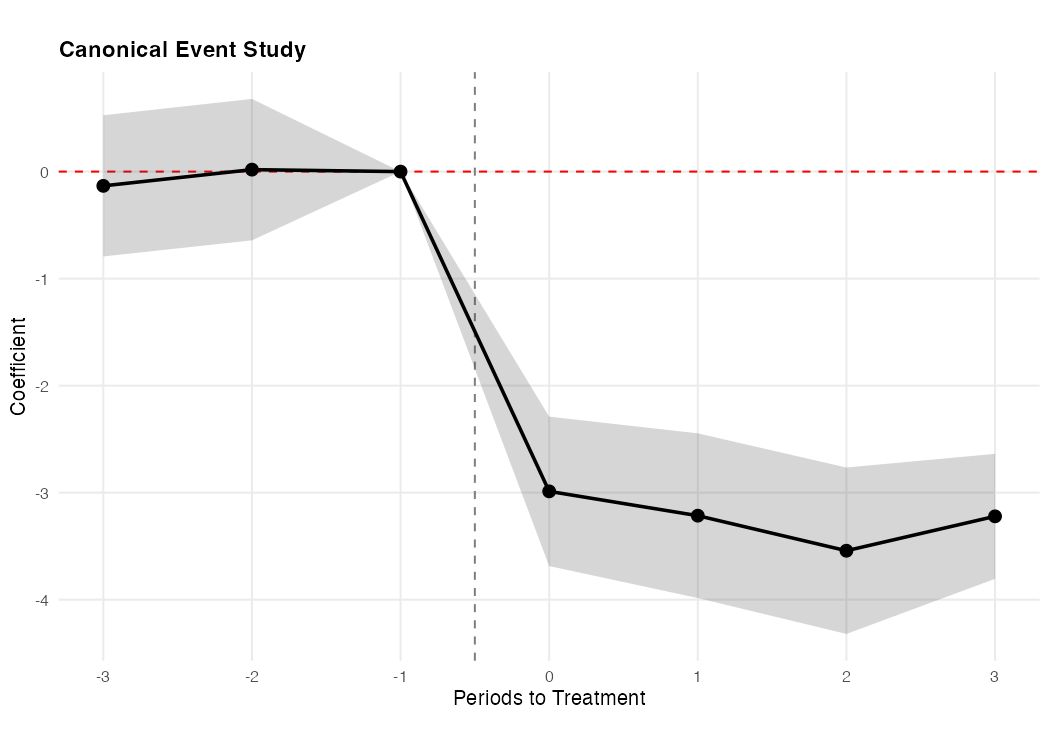
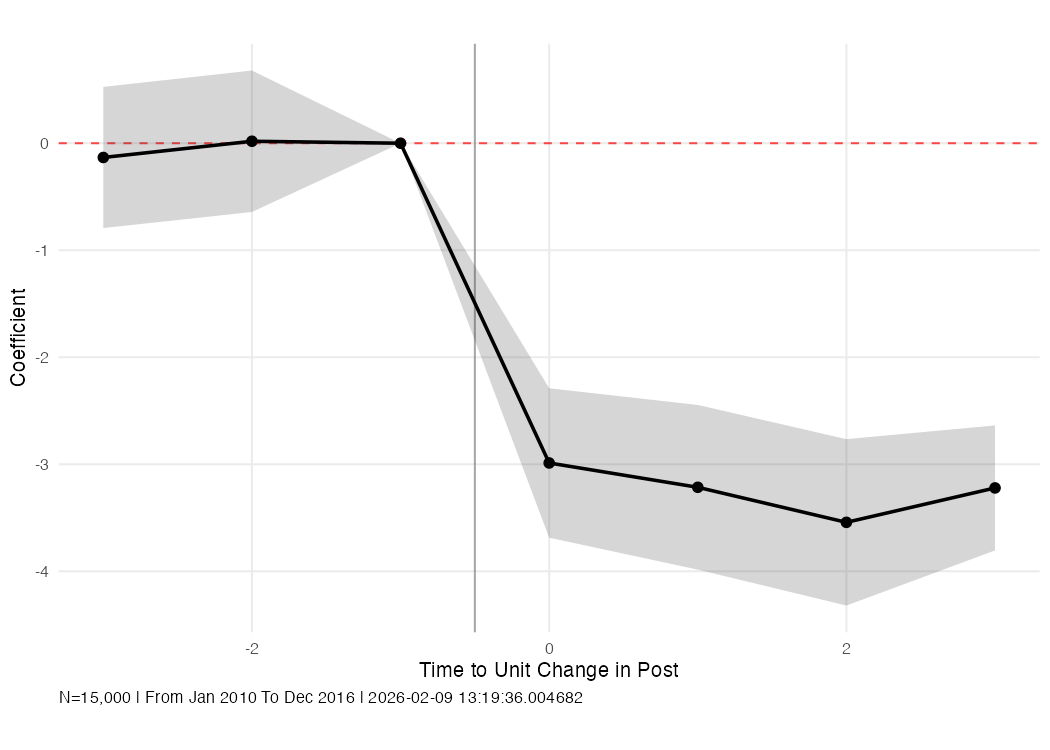
Change default x-axis label to 'Time to Unit Change in {Exposure}'

diff --git a/docs/stata/api.md b/docs/stata/api.md
@@ -78,7 +78,7 @@ dlm_plot [, title(string) xtitle(string) ytitle(string)
 | Option | Default | Description |
 |---|---|---|
 | `title(string)` | "Event Study (DLM)" | Plot title |
-| `xtitle(string)` | "Time to Treatment" | X-axis label |
+| `xtitle(string)` | "Time to Unit Change in {Exposure}" | X-axis label |
 | `ytitle(string)` | "Coefficient" | Y-axis label |
 | `from_label(string)` | — | Label for "From" in caption (e.g., "Jan 2010"). If both `from_label` and `to_label` are specified, caption shows "From ... To ...". |
 | `to_label(string)` | — | Label for "To" in caption (e.g., "Dec 2016") |

diff --git a/docs/stata/guide.md b/docs/stata/guide.md
@@ -160,7 +160,7 @@ Options for `dlm_plot`:
 | Option | Description |
 |---|---|
 | `title(string)` | Plot title (default: "Event Study (DLM)") |
-| `xtitle(string)` | X-axis title (default: "Time to Treatment") |
+| `xtitle(string)` | X-axis title (default: "Time to Unit Change in {Exposure}") |
 | `ytitle(string)` | Y-axis title (default: "Coefficient") |
 | `from_label(string)` | Label for "From" in caption (e.g., "Jan 2010") |
 | `to_label(string)` | Label for "To" in caption (e.g., "Dec 2016") |
